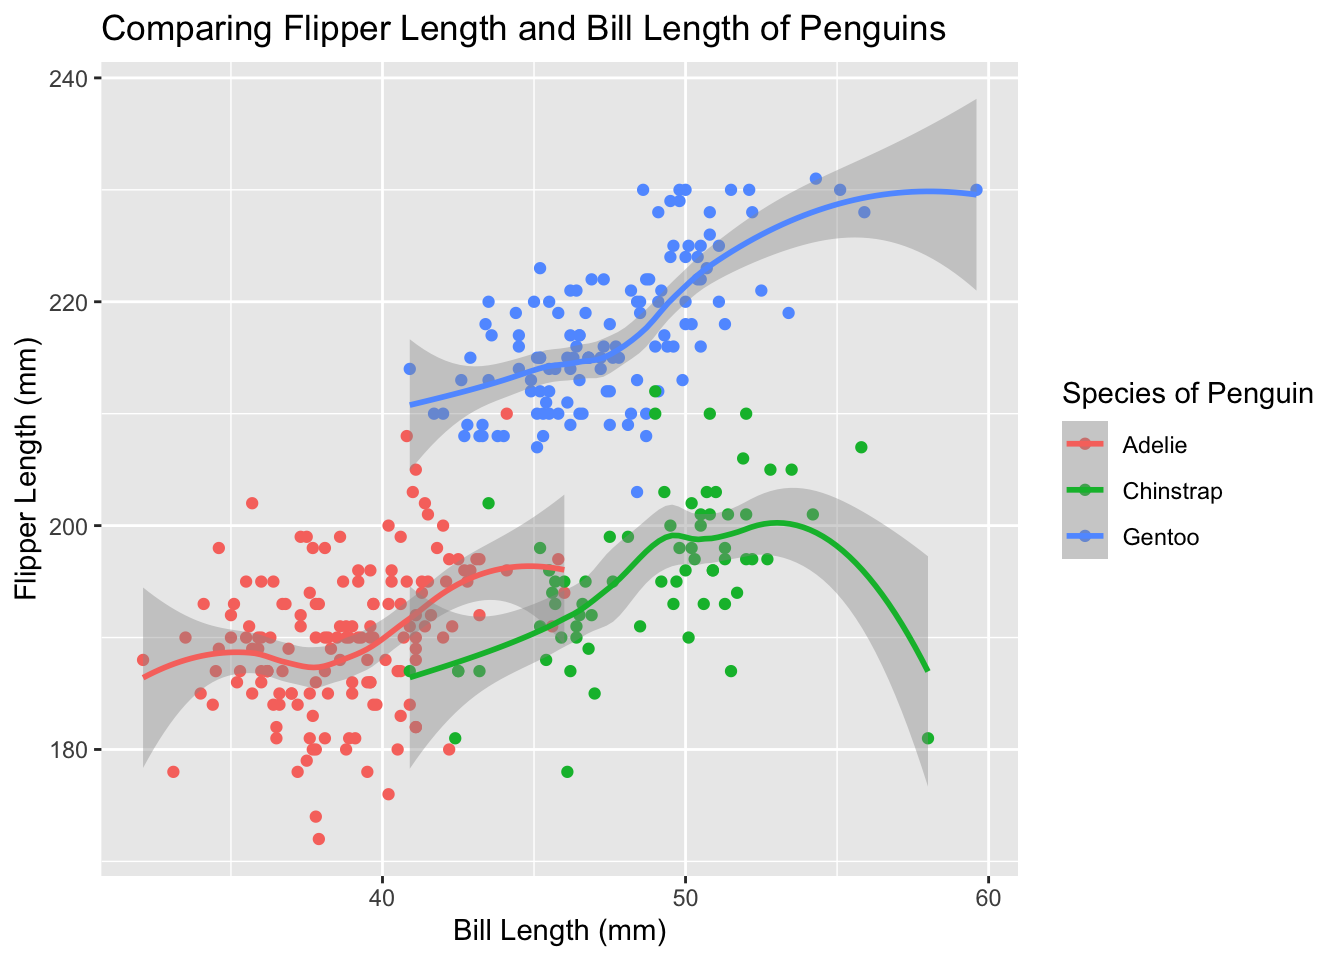
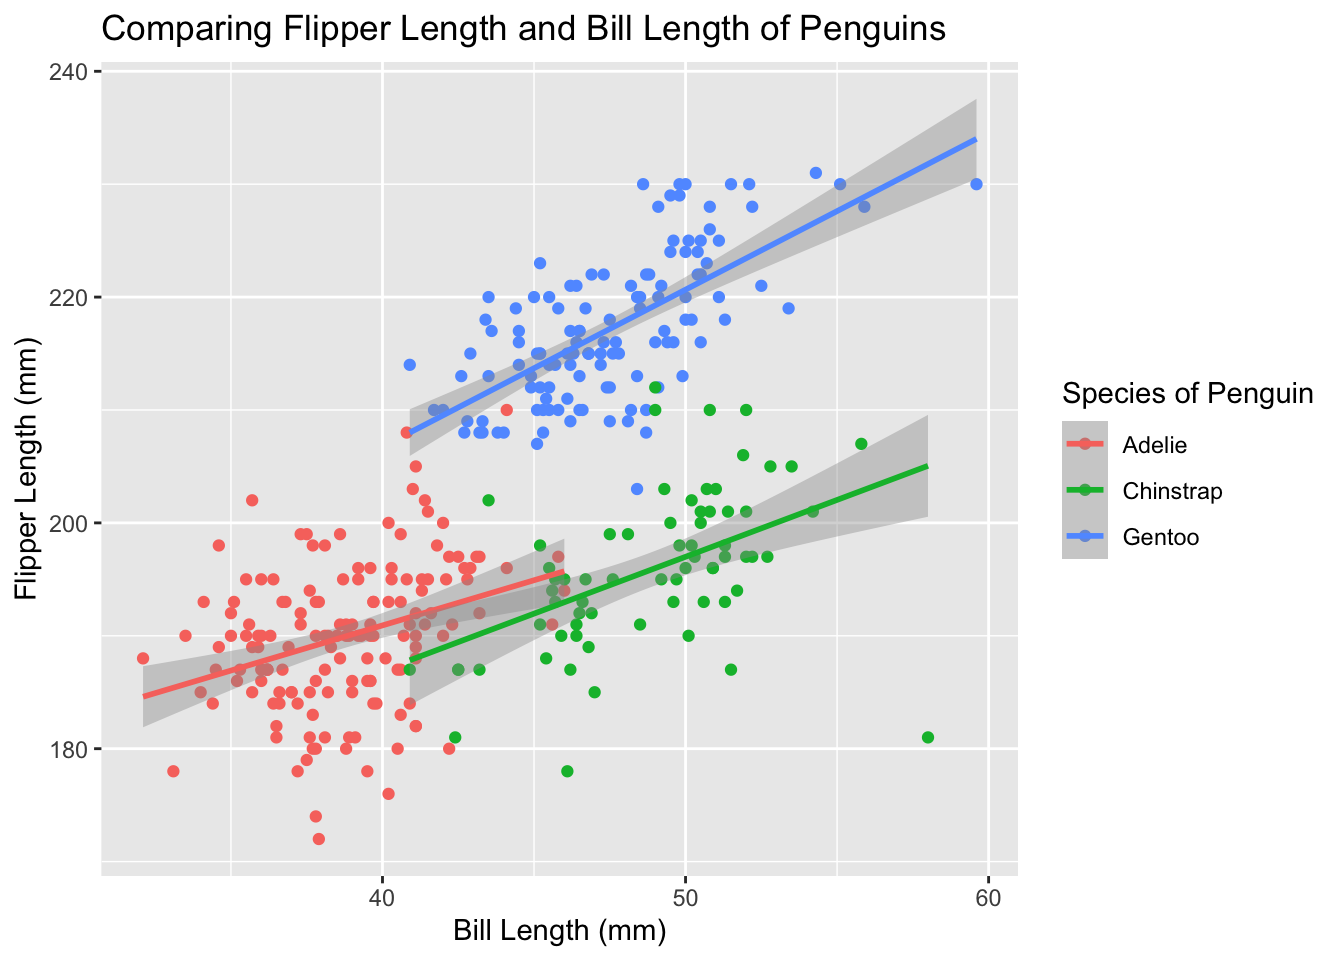
Fixed typo in geom_smooth (:

diff --git a/content/lesson/1-getting-started-ggplot.html b/content/lesson/1-getting-started-ggplot.html
@@ -128,9 +128,8 @@ ggplot(data = penguins, mapping = aes(x = bill_length_mm, y = flipper_length_mm)
 <p>To plot a line of best fit to your data you can use <code>geom_smooth</code> which takes a modeling function as its main argument. Today we’ll look at the linear model using the function <code>lm</code>.</p>
 <pre class="r"><code>ggplot(data = penguins, mapping = aes(x = bill_length_mm, y = flipper_length_mm, color = species)) +
   geom_point() +
-  geom_smooth(model = &quot;lm&quot;)</code></pre>
-<pre><code>## Warning: Ignoring unknown parameters: model</code></pre>
-<pre><code>## `geom_smooth()` using method = &#39;loess&#39; and formula &#39;y ~ x&#39;</code></pre>
+  geom_smooth(method = &quot;lm&quot;)</code></pre>
+<pre><code>## `geom_smooth()` using formula &#39;y ~ x&#39;</code></pre>
 <pre><code>## Warning: Removed 2 rows containing non-finite values (stat_smooth).</code></pre>
 <pre><code>## Warning: Removed 2 rows containing missing values (geom_point).</code></pre>
 <p><img src="/lesson/1-getting-started-ggplot_files/figure-html/linear-model-1.png" width="672" /></p>
@@ -140,13 +139,12 @@ ggplot(data = penguins, mapping = aes(x = bill_length_mm, y = flipper_length_mm)
 <p>You’ve done the hard work of polishing and reworking your plot to look just right. Now as you prepare to publish the plot, or share it with your PI you want to ensure that it is as informative as possible. There are several built in functions that help to personalize the title, axis labels, and other text aspects of the plot. For now we’ll use the <code>labs</code> function. For more “hands-on” personalization you can use the <code>theme</code> function, which we’ll explore later.</p>
 <pre class="r"><code>ggplot(data = penguins, mapping = aes(x = bill_length_mm, y = flipper_length_mm, color = species)) +
   geom_point() +
-  geom_smooth(model = &quot;lm&quot;) +
+  geom_smooth(method = &quot;lm&quot;) +
   labs(x = &quot;Bill Length (mm)&quot;,
        y = &quot;Flipper Length (mm)&quot;,
        title = &quot;Comparing Flipper Length and Bill Length of Penguins&quot;,
        color = &quot;Species of Penguin&quot;)</code></pre>
-<pre><code>## Warning: Ignoring unknown parameters: model</code></pre>
-<pre><code>## `geom_smooth()` using method = &#39;loess&#39; and formula &#39;y ~ x&#39;</code></pre>
+<pre><code>## `geom_smooth()` using formula &#39;y ~ x&#39;</code></pre>
 <pre><code>## Warning: Removed 2 rows containing non-finite values (stat_smooth).</code></pre>
 <pre><code>## Warning: Removed 2 rows containing missing values (geom_point).</code></pre>
 <p><img src="/lesson/1-getting-started-ggplot_files/figure-html/adding-labels-1.png" width="672" /></p>
@@ -155,7 +153,7 @@ ggplot(data = penguins, mapping = aes(x = bill_length_mm, y = flipper_length_mm)
 <h3>E. Saving your plot</h3>
 <p>Once you’re happy with your plot, you can save it using the <code>ggsave()</code> function which allows you to specify the kind of image file you want to save the plot as in addition to the resolution you want.</p>
 <pre class="r"><code>ggplot(data = penguins, mapping = aes(x = bill_length_mm, y = flipper_length_mm, color = species)) +
-  geom_smooth(model = &quot;lm&quot;) +
+  geom_smooth(method = &quot;lm&quot;) +
   geom_point() +
   labs(x = &quot;Bill Length (mm)&quot;,
        y = &quot;Flipper Length (mm)&quot;,
@@ -167,7 +165,7 @@ ggsave(filename = &quot;penguin_plot.png&quot;, plot = last_plot())
 #OR
 
 penguin_plot &lt;- ggplot(data = penguins, mapping = aes(x = bill_length_mm, y = flipper_length_mm, color = species)) +
-  geom_smooth(model = &quot;lm&quot;) +
+  geom_smooth(method = &quot;lm&quot;) +
   geom_point() +
   labs(x = &quot;Bill Length (mm)&quot;,
        y = &quot;Flipper Length (mm)&quot;,
